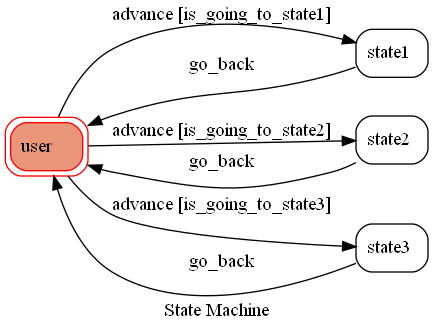
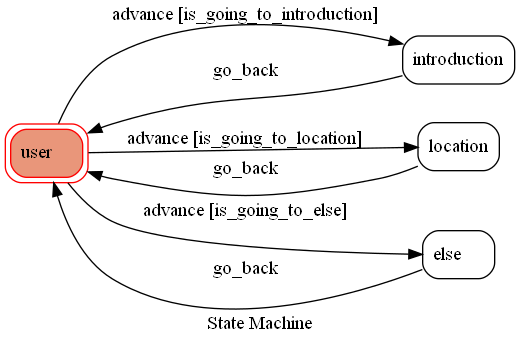
Add files via upload

Changed region(s): [[0.0, 0.0, 1.0, 0.9639], [0.3903, 0.241, 0.7206, 0.3012], [0.3903, 0.1807, 0.6005, 0.241]]

diff --git a/fsm.py b/fsm.py
@@ -33,27 +33,27 @@ class TocMachine(GraphMachine):
         print("Leaving state2")
 
 machine = TocMachine(
-    states=["user", "state1", "state2", "state3"],
+    states=["user", "introduction", "location", "else"],
     transitions=[
         {
             "trigger": "advance",
             "source": "user",
-            "dest": "state1",
-            "conditions": "is_going_to_state1",
+            "dest": "introduction",
+            "conditions": "is_going_to_introduction",
         },
         {
             "trigger": "advance",
             "source": "user",
-            "dest": "state2",
-            "conditions": "is_going_to_state2",
+            "dest": "location",
+            "conditions": "is_going_to_location",
         },
         {
             "trigger": "advance",
             "source": "user",
-            "dest": "state3",
-            "conditions": "is_going_to_state3",
+            "dest": "else",
+            "conditions": "is_going_to_else",
         },
-        {"trigger": "go_back", "source": ["state1", "state2", "state3"], "dest": "user"},
+        {"trigger": "go_back", "source": ["introduction", "location", "else"], "dest": "user"},
     ],
     initial="user",
     auto_transitions=False,
